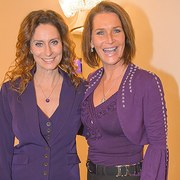
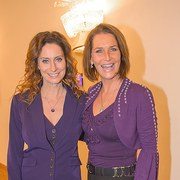
Testimonial 4: a wider crop so the circle stops clipping the left woman's hair
Able spotted the upper-left of the circle cutting her hair. The cause is the crop's tightness rather
than its position: at 420px the pair sits close to the top-left, which is exactly where an inscribed
circle narrows.

Three sizes were rendered as masked circles and compared - 420 as shipped, 480, 540 - and 480 is the
one that keeps both heads, hair included, inside the mask while the pair still fills it; 540 only
adds empty background. So the crop moves from (120,60,540,480) to (90,0,570,480), keeping the faces
whole at the same 180x180 output.

Its src moves to ?v=20261012.75.

diff --git a/index.html b/index.html
@@ -338,7 +338,7 @@
                         <!-- Testimonial 4 -->
                         <div class="testimonial">
                           <div class="img">
-                            <img src="img/testimonials/testimonial-4.jpg?v=20261012.74" alt="Sisi">
+                            <img src="img/testimonials/testimonial-4.jpg?v=20261012.75" alt="Sisi">
                           </div>
                           <div class="text">
                             <p>Ich weinte, ich lachte<br>War mutlos und hoffte neu<br>Doch was ich auch machte<br>Mir selbst blieb ich immer treu</p>
